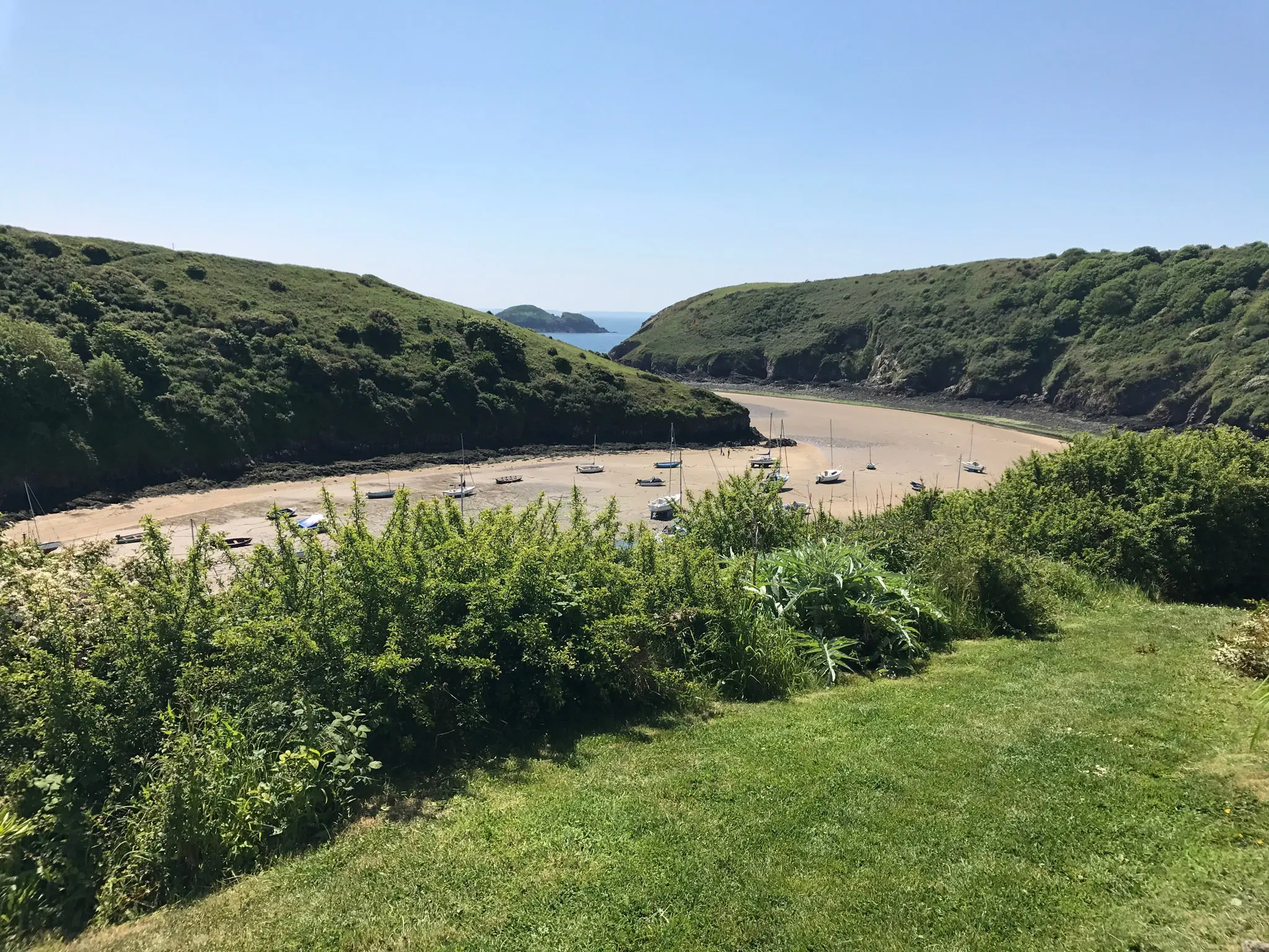
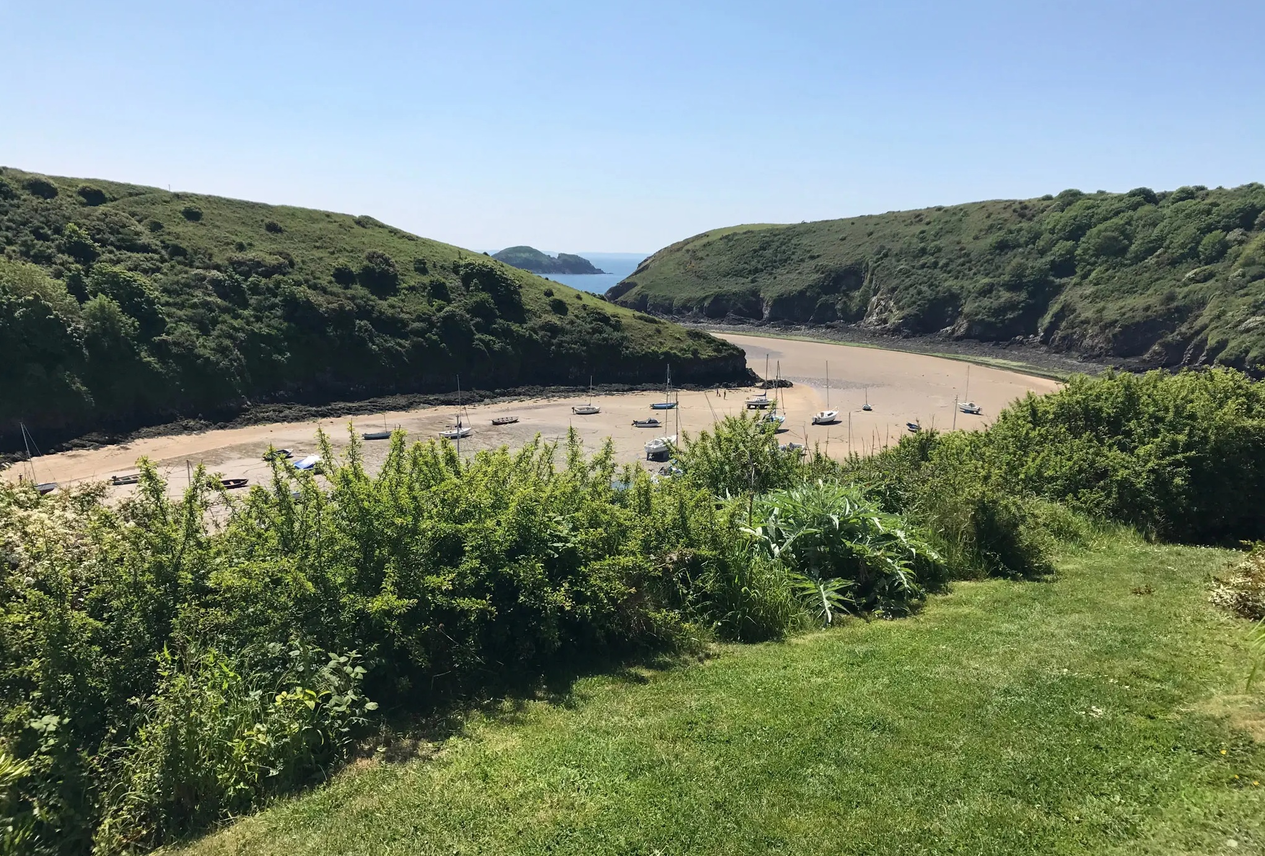
Cleaned code

diff --git a/src/styles.css b/src/styles.css
@@ -5,7 +5,6 @@
   --accent-colour: #fff8ed;
   --default-font-family: "Josefin Sans", serif;
   --heading-font-family: "Josefin Slab", sans-serif;
-  --box-shadow: rgba(45, 43, 43, 0.8) 0px 8px 8px 0;
 }
 body {
   background-color: var(--background-colour);
@@ -20,7 +19,7 @@ body {
 }
 .grid {
   display: grid;
-  grid-gap: 60px;
+  grid-gap: 50px;
 }
 .grid-2-columns {
   grid-template-columns: 1fr 1fr;
@@ -58,7 +57,7 @@ header {
     url("../images/gribin.jpg");
   background-repeat: no-repeat;
   background-size: cover;
-  color: var(--background-colour);
+  color: var(--accent-colour);
   text-align: center;
   padding: 200px 0;
 }
@@ -69,7 +68,7 @@ h1 {
   line-height: 1.5;
   margin: 10px 0;
 }
-h4 {
+h3 {
   color: var(--primary-colour);
   font-family: var(--heading-font-family);
   font-size: 36px;
@@ -77,12 +76,13 @@ h4 {
   margin: 10px 0;
 }
 header h2 {
-  color: var(--accent-colour);
+  color: #fff8ed;
   font-family: var(--heading-font-family);
   font-weight: 400;
   font-size: 44px;
   line-height: 1.5;
   margin: 20px 0;
+  text-decoration: underline #fdac61;
 }
 header a {
   color: var(--accent-colour);
@@ -108,6 +108,7 @@ header a:active {
 .img-responsive {
   width: 100%;
   display: block;
+  filter: contrast(88%) saturate(120%);
 }
 main {
   background-color: var(--accent-colour);
@@ -129,13 +130,14 @@ main p {
 section {
   max-width: 100%;
   margin: 0 auto;
-  padding: 80px;
+  padding: 60px;
 }
 section.places {
   background-color: var(--primary-colour);
 }
 section.gallery {
   background-color: #736e68;
+  padding: 40px;
 }
 hr {
   border: 0.5px solid #fdac61;
@@ -195,20 +197,22 @@ footer a:hover {
   header h2 {
     font-size: 26px;
   }
-  header h3 {
-    font-size: 12px;
+  h3 {
+    font-size: 22px;
+  }
+  main p {
+    font-size: 16px;
+  }
+  section {
+    padding: 30px;
   }
   .grid {
     grid-template-columns: 1fr;
     grid-gap: 32px;
   }
-  section {
-    padding: 30px;
-  }
   .card-header img {
     display: none;
   }
-
   .embed {
     aspect-ratio: 16 / 9;
   }

diff --git a/index.html b/index.html
@@ -68,7 +68,7 @@
                 ></iframe>
               </div>
               <div class="card-body">
-                <h4>Mamgu</h4>
+                <h3>MamGu</h3>
                 <p>
                   In the heart of St Davids - Britains smallest city - MamGu
                   Welshcakes provide a variety of traditional and alternative
@@ -106,7 +106,7 @@
                 ></iframe>
               </div>
               <div class="card-body">
-                <h4>The Shed</h4>
+                <h3>The Shed</h3>
                 <p>
                   A relaxed & informal fish & chip bistro in the renowned
                   village of Porthgain, situated on the Pembrokeshire coast
@@ -143,7 +143,7 @@
                 ></iframe>
               </div>
               <div class="card-body">
-                <h4>St. Brides Inn</h4>
+                <h3>St. Brides Inn</h3>
                 <p>
                   Situated opposite the car park in Little Haven, you will find
                   the Saint Brides Inn where home prepared and cooked food are
@@ -1021,7 +1021,7 @@
       <footer>
         <section class="grid-3-columns-with-first-narrow">
           <div>
-            <h3>About Pembrokeshire</h3>
+            <strong>About Pembrokeshire</strong>
             <ul>
               <li>
                 <a
@@ -1050,7 +1050,7 @@
             </ul>
           </div>
           <div>
-            <h3>About me</h3>
+            <strong>About me</strong>
             <p>
               My name is
               <a
@@ -1063,7 +1063,7 @@
             </p>
           </div>
           <div>
-            <h3>About this website</h3>
+            <strong>About this website</strong>
             <p>
               This project was coded by
               <a
